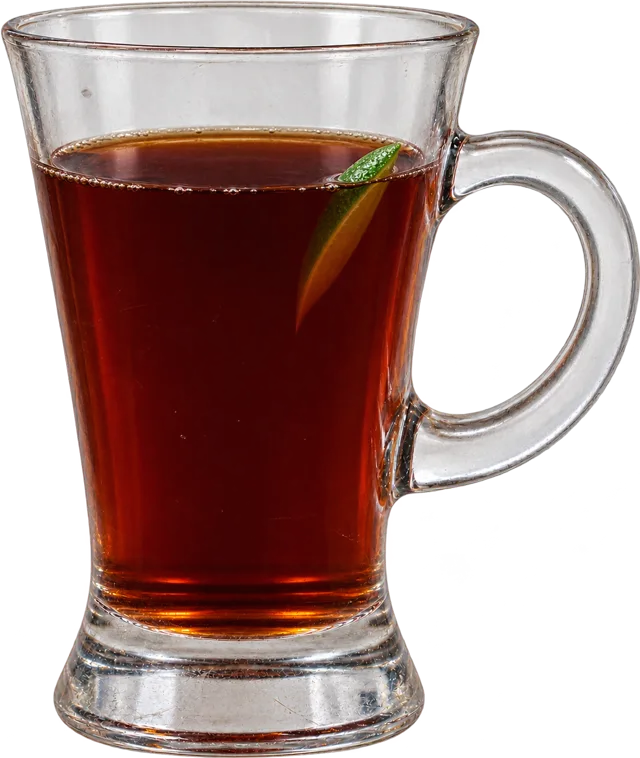
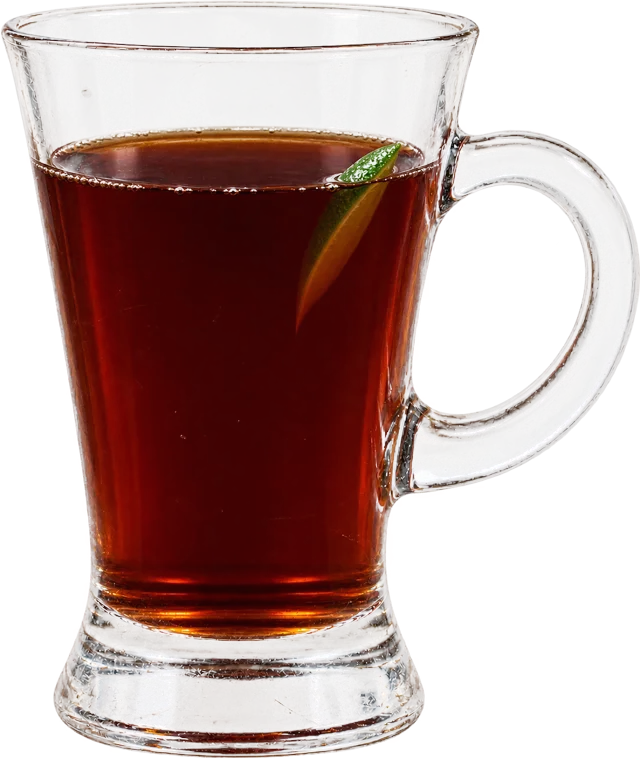
Tea glass: see-through glass, base standing on the footer

diff --git a/src/css/site.css b/src/css/site.css
@@ -177,11 +177,13 @@ a.partner:hover strong{color:var(--green)}
 /* ── Closing band ── */
 .cta{background:var(--deep) center/cover;color:var(--paper)}
 .cta h2{color:var(--paper);max-width:17ch;font-size:clamp(32px,5.2vw,76px)}
-/* Home: a glass of tea stands on the footer's top edge, as if on a table. */
+/* Home: a glass of tea stands on the footer, as if on a table. */
 .cta-tea{padding-bottom:0}
 .cta-tea .wrap{display:grid;grid-template-columns:minmax(0,1fr) auto;column-gap:var(--gap);align-items:end}
 .cta-copy{padding-bottom:var(--space)}
-.tea{width:clamp(200px,25vw,360px);margin-right:clamp(0px,3vw,48px);filter:drop-shadow(0 18px 22px rgba(60,8,6,.35))}
+/* The base of the glass comes down over the footer, so the footer reads as the table top. */
+.tea{--tea:clamp(200px,25vw,360px);width:var(--tea);margin-right:clamp(0px,3vw,48px);margin-bottom:calc(var(--tea) * -.2);position:relative;z-index:2}
+.page-home .site-foot{position:relative;padding-top:clamp(72px,8vw,120px)}
 
 /* ── Inner page heads ── */
 .page-head{padding:0;color:var(--paper);background:var(--deep) center/cover}
@@ -290,7 +292,7 @@ a.partner:hover strong{color:var(--green)}
   .partner-row{grid-template-columns:repeat(2,minmax(0,1fr))}
   .cta-tea .wrap{grid-template-columns:1fr}
   .cta-copy{padding-bottom:40px}
-  .tea{width:min(52vw,230px);justify-self:end;margin-right:0}
+  .tea{--tea:min(52vw,230px);justify-self:end;margin-right:0}
   .post.feature{grid-template-columns:1fr}
   .post.feature .thumb{margin-bottom:22px}
   .posts{grid-template-columns:1fr;gap:48px}
